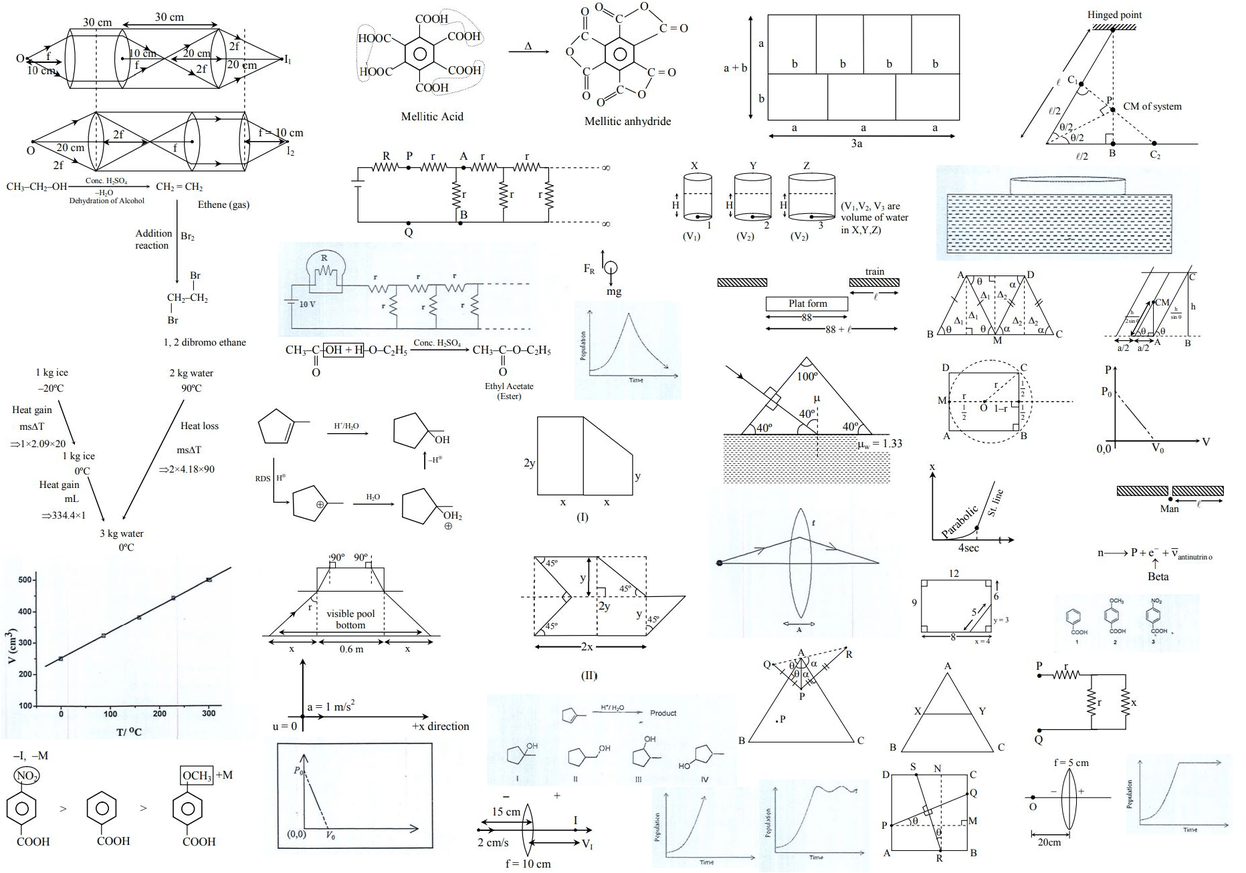
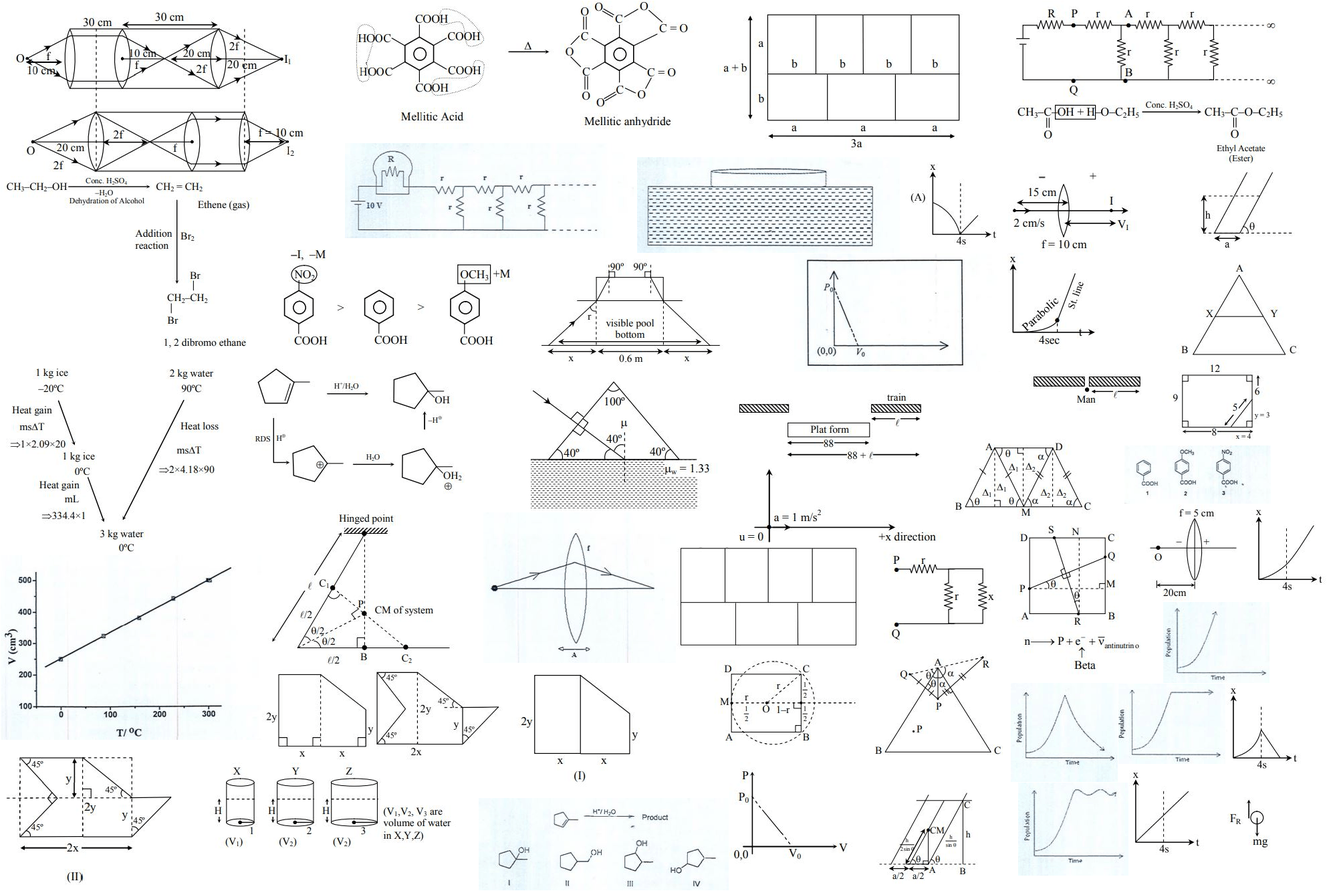
added images

diff --git a/img/others/kvpy/prev/kvpy_sa_2015.css b/img/others/kvpy/prev/kvpy_sa_2015.css
@@ -7,134 +7,155 @@ Responsive: <div class="yourspritesname"></div>
 */
 
 
+.KVPY_SA_Exam_2015_10_q {max-width:372px; max-height:139px; }
+.KVPY_SA_Exam_2015_10_q::after {content: '\00a0';display: inline-block; width:372px; height:139px; background-position: 24.212476837554046% 83.40283569641367%;background-size: 535.2150537634409% 962.589928057554%;background-image: url(kvpy_sa_2015.png);padding: 0; }
+div.KVPY_SA_Exam_2015_10_q::after {max-width:372px; width:100%;height:0;padding: 0 0 37.365591397849464% 0;}
 .KVPY_SA_Exam_2015_10_s_1 {max-width:287px; max-height:200px; }
-.KVPY_SA_Exam_2015_10_s_1::after {content: '\00a0';display: inline-block; width:287px; height:200px; background-position: 48.79441624365482% 54.79204339963834%;background-size: 649.1289198606272% 653%;background-image: url(kvpy_sa_2015.png);padding: 0; }
+.KVPY_SA_Exam_2015_10_s_1::after {content: '\00a0';display: inline-block; width:287px; height:200px; background-position: 44.894366197183096% 87.17047451669596%;background-size: 693.7282229965157% 669%;background-image: url(kvpy_sa_2015.png);padding: 0; }
 div.KVPY_SA_Exam_2015_10_s_1::after {max-width:287px; width:100%;height:0;padding: 0 0 69.68641114982579% 0;}
 .KVPY_SA_Exam_2015_10_s_2 {max-width:288px; max-height:230px; }
-.KVPY_SA_Exam_2015_10_s_2::after {content: '\00a0';display: inline-block; width:288px; height:230px; background-position: 48.888888888888886% 75%;background-size: 646.875% 567.8260869565217%;background-image: url(kvpy_sa_2015.png);padding: 0; }
+.KVPY_SA_Exam_2015_10_s_2::after {content: '\00a0';display: inline-block; width:288px; height:230px; background-position: 0.058719906048150326% 99.90974729241877%;background-size: 691.3194444444445% 581.7391304347826%;background-image: url(kvpy_sa_2015.png);padding: 0; }
 div.KVPY_SA_Exam_2015_10_s_2::after {max-width:288px; width:100%;height:0;padding: 0 0 79.86111111111111% 0;}
 .KVPY_SA_Exam_2015_11_s_1 {max-width:325px; max-height:141px; }
-.KVPY_SA_Exam_2015_11_s_1::after {content: '\00a0';display: inline-block; width:325px; height:141px; background-position: 68.7256176853056% 31.673819742489272%;background-size: 573.2307692307693% 926.2411347517731%;background-image: url(kvpy_sa_2015.png);padding: 0; }
+.KVPY_SA_Exam_2015_11_s_1::after {content: '\00a0';display: inline-block; width:325px; height:141px; background-position: 65.42617046818728% 46.532999164578115%;background-size: 612.6153846153846% 948.936170212766%;background-image: url(kvpy_sa_2015.png);padding: 0; }
 div.KVPY_SA_Exam_2015_11_s_1::after {max-width:325px; width:100%;height:0;padding: 0 0 43.38461538461539% 0;}
 .KVPY_SA_Exam_2015_11_s_2 {max-width:239px; max-height:113px; }
-.KVPY_SA_Exam_2015_11_s_2::after {content: '\00a0';display: inline-block; width:239px; height:113px; background-position: 99.9384236453202% 58.50796311818944%;background-size: 779.4979079497908% 1155.7522123893805%;background-image: url(kvpy_sa_2015.png);padding: 0; }
+.KVPY_SA_Exam_2015_11_s_2::after {content: '\00a0';display: inline-block; width:239px; height:113px; background-position: 85.55936073059361% 43.59183673469388%;background-size: 833.0543933054394% 1184.070796460177%;background-image: url(kvpy_sa_2015.png);padding: 0; }
 div.KVPY_SA_Exam_2015_11_s_2::after {max-width:239px; width:100%;height:0;padding: 0 0 47.28033472803347% 0;}
+.KVPY_SA_Exam_2015_17_q {max-width:184px; max-height:127px; }
+.KVPY_SA_Exam_2015_17_q::after {content: '\00a0';display: inline-block; width:184px; height:127px; background-position: 98.33978970669618% 20.64409578860446%;background-size: 1082.0652173913043% 1053.5433070866143%;background-image: url(kvpy_sa_2015.png);padding: 0; }
+div.KVPY_SA_Exam_2015_17_q::after {max-width:184px; width:100%;height:0;padding: 0 0 69.02173913043478% 0;}
 .KVPY_SA_Exam_2015_17_s {max-width:219px; max-height:141px; }
-.KVPY_SA_Exam_2015_17_s::after {content: '\00a0';display: inline-block; width:219px; height:141px; background-position: 99.69586374695864% 33.562231759656655%;background-size: 850.6849315068494% 926.2411347517731%;background-image: url(kvpy_sa_2015.png);padding: 0; }
+.KVPY_SA_Exam_2015_17_s::after {content: '\00a0';display: inline-block; width:219px; height:141px; background-position: 73.53273137697516% 98.57978279030911%;background-size: 909.1324200913242% 948.936170212766%;background-image: url(kvpy_sa_2015.png);padding: 0; }
 div.KVPY_SA_Exam_2015_17_s::after {max-width:219px; width:100%;height:0;padding: 0 0 64.38356164383562% 0;}
+.KVPY_SA_Exam_2015_18_o_1 {max-width:160px; max-height:136px; }
+.KVPY_SA_Exam_2015_18_o_1::after {content: '\00a0';display: inline-block; width:160px; height:136px; background-position: 73.56635718186783% 19.550748752079866%;background-size: 1244.375% 983.8235294117648%;background-image: url(kvpy_sa_2015.png);padding: 0; }
+div.KVPY_SA_Exam_2015_18_o_1::after {max-width:160px; width:100%;height:0;padding: 0 0 85% 0;}
+.KVPY_SA_Exam_2015_18_o_2 {max-width:118px; max-height:137px; }
+.KVPY_SA_Exam_2015_18_o_2::after {content: '\00a0';display: inline-block; width:118px; height:137px; background-position: 99.9466097170315% 62.781015820149875%;background-size: 1687.2881355932204% 976.6423357664233%;background-image: url(kvpy_sa_2015.png);padding: 0; }
+div.KVPY_SA_Exam_2015_18_o_2::after {max-width:118px; width:100%;height:0;padding: 0 0 116.10169491525424% 0;}
+.KVPY_SA_Exam_2015_18_o_3 {max-width:130px; max-height:156px; }
+.KVPY_SA_Exam_2015_18_o_3::after {content: '\00a0';display: inline-block; width:130px; height:156px; background-position: 90.7576571735626% 96.7005076142132%;background-size: 1531.5384615384614% 857.6923076923077%;background-image: url(kvpy_sa_2015.png);padding: 0; }
+div.KVPY_SA_Exam_2015_18_o_3::after {max-width:130px; width:100%;height:0;padding: 0 0 120% 0;}
+.KVPY_SA_Exam_2015_18_o_4 {max-width:125px; max-height:161px; }
+.KVPY_SA_Exam_2015_18_o_4::after {content: '\00a0';display: inline-block; width:125px; height:161px; background-position: 98.28510182207931% 86.83092608326253%;background-size: 1592.8% 831.055900621118%;background-image: url(kvpy_sa_2015.png);padding: 0; }
+div.KVPY_SA_Exam_2015_18_o_4::after {max-width:125px; width:100%;height:0;padding: 0 0 128.8% 0;}
 .KVPY_SA_Exam_2015_18_s_1 {max-width:335px; max-height:118px; }
-.KVPY_SA_Exam_2015_18_s_1::after {content: '\00a0';display: inline-block; width:335px; height:118px; background-position: 25.654450261780106% 82.74410774410775%;background-size: 556.1194029850747% 1106.7796610169491%;background-image: url(kvpy_sa_2015.png);padding: 0; }
+.KVPY_SA_Exam_2015_18_s_1::after {content: '\00a0';display: inline-block; width:335px; height:118px; background-position: 65.82125603864735% 57.295081967213115%;background-size: 594.3283582089553% 1133.8983050847457%;background-image: url(kvpy_sa_2015.png);padding: 0; }
 div.KVPY_SA_Exam_2015_18_s_1::after {max-width:335px; width:100%;height:0;padding: 0 0 35.223880597014926% 0;}
 .KVPY_SA_Exam_2015_18_s_2 {max-width:244px; max-height:155px; }
-.KVPY_SA_Exam_2015_18_s_2::after {content: '\00a0';display: inline-block; width:244px; height:155px; background-position: 85.11426806670785% 59.860990443092966%;background-size: 763.5245901639345% 842.5806451612904%;background-image: url(kvpy_sa_2015.png);padding: 0; }
+.KVPY_SA_Exam_2015_18_s_2::after {content: '\00a0';display: inline-block; width:244px; height:155px; background-position: 85.80423583285632% 31.952662721893493%;background-size: 815.983606557377% 863.2258064516129%;background-image: url(kvpy_sa_2015.png);padding: 0; }
 div.KVPY_SA_Exam_2015_18_s_2::after {max-width:244px; width:100%;height:0;padding: 0 0 63.52459016393443% 0;}
 .KVPY_SA_Exam_2015_21_s {max-width:119px; max-height:87px; }
-.KVPY_SA_Exam_2015_21_s::after {content: '\00a0';display: inline-block; width:119px; height:87px; background-position: 48.9105504587156% 29.696472518457753%;background-size: 1565.546218487395% 1501.1494252873563%;background-image: url(kvpy_sa_2015.png);padding: 0; }
+.KVPY_SA_Exam_2015_21_s::after {content: '\00a0';display: inline-block; width:119px; height:87px; background-position: 97.22222222222223% 94.64428457234213%;background-size: 1673.109243697479% 1537.9310344827586%;background-image: url(kvpy_sa_2015.png);padding: 0; }
 div.KVPY_SA_Exam_2015_21_s::after {max-width:119px; width:100%;height:0;padding: 0 0 73.10924369747899% 0;}
 .KVPY_SA_Exam_2015_22_s {max-width:225px; max-height:76px; }
-.KVPY_SA_Exam_2015_22_s::after {content: '\00a0';display: inline-block; width:225px; height:76px; background-position: 99.08424908424908% 66.01626016260163%;background-size: 828% 1718.421052631579%;background-image: url(kvpy_sa_2015.png);padding: 0; }
+.KVPY_SA_Exam_2015_22_s::after {content: '\00a0';display: inline-block; width:225px; height:76px; background-position: 85.73046432616081% 74.80190174326466%;background-size: 884.8888888888889% 1760.5263157894738%;background-image: url(kvpy_sa_2015.png);padding: 0; }
 div.KVPY_SA_Exam_2015_22_s::after {max-width:225px; width:100%;height:0;padding: 0 0 33.77777777777778% 0;}
 .KVPY_SA_Exam_2015_23_s {max-width:514px; max-height:261px; }
-.KVPY_SA_Exam_2015_23_s::after {content: '\00a0';display: inline-block; width:514px; height:261px; background-position: 0.07412898443291327% 0.09569377990430622%;background-size: 362.4513618677043% 500.3831417624521%;background-image: url(kvpy_sa_2015.png);padding: 0; }
+.KVPY_SA_Exam_2015_23_s::after {content: '\00a0';display: inline-block; width:514px; height:261px; background-position: 0.06770480704129993% 0.09285051067780872%;background-size: 387.3540856031128% 512.6436781609195%;background-image: url(kvpy_sa_2015.png);padding: 0; }
 div.KVPY_SA_Exam_2015_23_s::after {max-width:514px; width:100%;height:0;padding: 0 0 50.778210116731515% 0;}
 .KVPY_SA_Exam_2015_24_s {max-width:320px; max-height:217px; }
-.KVPY_SA_Exam_2015_24_s::after {content: '\00a0';display: inline-block; width:320px; height:217px; background-position: 68.50291639662994% 46.92378328741965%;background-size: 582.1875% 601.8433179723502%;background-image: url(kvpy_sa_2015.png);padding: 0; }
+.KVPY_SA_Exam_2015_24_s::after {content: '\00a0';display: inline-block; width:320px; height:217px; background-position: 46.02034709754638% 48.88492417484389%;background-size: 622.1875% 616.5898617511521%;background-image: url(kvpy_sa_2015.png);padding: 0; }
 div.KVPY_SA_Exam_2015_24_s::after {max-width:320px; width:100%;height:0;padding: 0 0 67.8125% 0;}
 .KVPY_SA_Exam_2015_25_s {max-width:268px; max-height:127px; }
-.KVPY_SA_Exam_2015_25_s::after {content: '\00a0';display: inline-block; width:268px; height:127px; background-position: 44.26332288401254% 99.8303647158609%;background-size: 695.1492537313433% 1028.3464566929133%;background-image: url(kvpy_sa_2015.png);padding: 0; }
+.KVPY_SA_Exam_2015_25_s::after {content: '\00a0';display: inline-block; width:268px; height:127px; background-position: 87.52176436448056% 20.64409578860446%;background-size: 742.9104477611941% 1053.5433070866143%;background-image: url(kvpy_sa_2015.png);padding: 0; }
 div.KVPY_SA_Exam_2015_25_s::after {max-width:268px; width:100%;height:0;padding: 0 0 47.38805970149254% 0;}
 .KVPY_SA_Exam_2015_26_q {max-width:436px; max-height:142px; }
-.KVPY_SA_Exam_2015_26_q::after {content: '\00a0';display: inline-block; width:436px; height:142px; background-position: 29.1520672740014% 31.099656357388316%;background-size: 427.29357798165137% 919.7183098591549%;background-image: url(kvpy_sa_2015.png);padding: 0; }
+.KVPY_SA_Exam_2015_26_q::after {content: '\00a0';display: inline-block; width:436px; height:142px; background-position: 33.18327974276527% 17.892976588628763%;background-size: 456.651376146789% 942.2535211267606%;background-image: url(kvpy_sa_2015.png);padding: 0; }
 div.KVPY_SA_Exam_2015_26_q::after {max-width:436px; width:100%;height:0;padding: 0 0 32.56880733944954% 0;}
 .KVPY_SA_Exam_2015_26_s_1 {max-width:457px; max-height:147px; }
-.KVPY_SA_Exam_2015_26_s_1::after {content: '\00a0';display: inline-block; width:457px; height:147px; background-position: 36.69985775248933% 18.464193270060395%;background-size: 407.6586433260394% 888.4353741496599%;background-image: url(kvpy_sa_2015.png);padding: 0; }
+.KVPY_SA_Exam_2015_26_s_1::after {content: '\00a0';display: inline-block; width:457px; height:147px; background-position: 98.5006518904824% 0.08396305625524769%;background-size: 435.66739606126913% 910.204081632653%;background-image: url(kvpy_sa_2015.png);padding: 0; }
 div.KVPY_SA_Exam_2015_26_s_1::after {max-width:457px; width:100%;height:0;padding: 0 0 32.16630196936543% 0;}
 .KVPY_SA_Exam_2015_26_s_2 {max-width:207px; max-height:150px; }
-.KVPY_SA_Exam_2015_26_s_2::after {content: '\00a0';display: inline-block; width:207px; height:150px; background-position: 91.72705314009661% 84.51557093425606%;background-size: 900% 870.6666666666666%;background-image: url(kvpy_sa_2015.png);padding: 0; }
+.KVPY_SA_Exam_2015_26_s_2::after {content: '\00a0';display: inline-block; width:207px; height:150px; background-position: 73.20627802690584% 68.85521885521885%;background-size: 961.8357487922706% 892%;background-image: url(kvpy_sa_2015.png);padding: 0; }
 div.KVPY_SA_Exam_2015_26_s_2::after {max-width:207px; width:100%;height:0;padding: 0 0 72.46376811594203% 0;}
 .KVPY_SA_Exam_2015_29_q {max-width:310px; max-height:177px; }
-.KVPY_SA_Exam_2015_29_q::after {content: '\00a0';display: inline-block; width:310px; height:177px; background-position: 25.434642627173215% 97.60850310008857%;background-size: 600.9677419354839% 737.8531073446328%;background-image: url(kvpy_sa_2015.png);padding: 0; }
+.KVPY_SA_Exam_2015_29_q::after {content: '\00a0';display: inline-block; width:310px; height:177px; background-position: 70.67221891731113% 32.6442721791559%;background-size: 642.258064516129% 755.9322033898305%;background-image: url(kvpy_sa_2015.png);padding: 0; }
 div.KVPY_SA_Exam_2015_29_q::after {max-width:310px; width:100%;height:0;padding: 0 0 57.096774193548384% 0;}
 .KVPY_SA_Exam_2015_29_s {max-width:211px; max-height:164px; }
-.KVPY_SA_Exam_2015_29_s::after {content: '\00a0';display: inline-block; width:211px; height:164px; background-position: 98.8498789346247% 46.67250437828371%;background-size: 882.9383886255924% 796.3414634146342%;background-image: url(kvpy_sa_2015.png);padding: 0; }
+.KVPY_SA_Exam_2015_29_s::after {content: '\00a0';display: inline-block; width:211px; height:164px; background-position: 61.29213483146067% 97.01873935264055%;background-size: 943.6018957345972% 815.8536585365854%;background-image: url(kvpy_sa_2015.png);padding: 0; }
 div.KVPY_SA_Exam_2015_29_s::after {max-width:211px; width:100%;height:0;padding: 0 0 77.72511848341232% 0;}
 .KVPY_SA_Exam_2015_34_q {max-width:219px; max-height:87px; }
-.KVPY_SA_Exam_2015_34_q::after {content: '\00a0';display: inline-block; width:219px; height:87px; background-position: 95.86374695863746% 72.92863002461034%;background-size: 850.6849315068494% 1501.1494252873563%;background-image: url(kvpy_sa_2015.png);padding: 0; }
+.KVPY_SA_Exam_2015_34_q::after {content: '\00a0';display: inline-block; width:219px; height:87px; background-position: 94.92099322799098% 53.23741007194245%;background-size: 909.1324200913242% 1537.9310344827586%;background-image: url(kvpy_sa_2015.png);padding: 0; }
 div.KVPY_SA_Exam_2015_34_q::after {max-width:219px; width:100%;height:0;padding: 0 0 39.726027397260275% 0;}
 .KVPY_SA_Exam_2015_34_s {max-width:393px; max-height:188px; }
-.KVPY_SA_Exam_2015_34_s::after {content: '\00a0';display: inline-block; width:393px; height:188px; background-position: 0.06802721088435375% 99.01610017889088%;background-size: 474.0458015267176% 694.6808510638298%;background-image: url(kvpy_sa_2015.png);padding: 0; }
+.KVPY_SA_Exam_2015_34_s::after {content: '\00a0';display: inline-block; width:393px; height:188px; background-position: 26.032540675844807% 31.043478260869566%;background-size: 506.61577608142494% 711.7021276595744%;background-image: url(kvpy_sa_2015.png);padding: 0; }
 div.KVPY_SA_Exam_2015_34_s::after {max-width:393px; width:100%;height:0;padding: 0 0 47.837150127226465% 0;}
 .KVPY_SA_Exam_2015_40_s {max-width:555px; max-height:212px; }
-.KVPY_SA_Exam_2015_40_s::after {content: '\00a0';display: inline-block; width:555px; height:212px; background-position: 39.44954128440367% 0.09140767824497258%;background-size: 335.6756756756757% 616.0377358490566%;background-image: url(kvpy_sa_2015.png);padding: 0; }
+.KVPY_SA_Exam_2015_40_s::after {content: '\00a0';display: inline-block; width:555px; height:212px; background-position: 35.93314763231198% 0.08880994671403197%;background-size: 358.73873873873873% 631.1320754716982%;background-image: url(kvpy_sa_2015.png);padding: 0; }
 div.KVPY_SA_Exam_2015_40_s::after {max-width:555px; width:100%;height:0;padding: 0 0 38.1981981981982% 0;}
 .KVPY_SA_Exam_2015_41_s {max-width:442px; max-height:100px; }
-.KVPY_SA_Exam_2015_41_s::after {content: '\00a0';display: inline-block; width:442px; height:100px; background-position: 29.27515833919775% 41.87396351575456%;background-size: 421.49321266968326% 1306%;background-image: url(kvpy_sa_2015.png);padding: 0; }
+.KVPY_SA_Exam_2015_41_s::after {content: '\00a0';display: inline-block; width:442px; height:100px; background-position: 97.54680438992898% 12.035541195476576%;background-size: 450.4524886877828% 1338%;background-image: url(kvpy_sa_2015.png);padding: 0; }
 div.KVPY_SA_Exam_2015_41_s::after {max-width:442px; width:100%;height:0;padding: 0 0 22.624434389140273% 0;}
 .KVPY_SA_Exam_2015_45_q {max-width:390px; max-height:276px; }
-.KVPY_SA_Exam_2015_45_q::after {content: '\00a0';display: inline-block; width:390px; height:276px; background-position: 0.06788866259334692% 80.58252427184466%;background-size: 477.6923076923077% 473.18840579710144%;background-image: url(kvpy_sa_2015.png);padding: 0; }
+.KVPY_SA_Exam_2015_45_q::after {content: '\00a0';display: inline-block; width:390px; height:276px; background-position: 0.06246096189881324% 78.15442561205273%;background-size: 510.5128205128205% 484.7826086956522%;background-image: url(kvpy_sa_2015.png);padding: 0; }
 div.KVPY_SA_Exam_2015_45_q::after {max-width:390px; width:100%;height:0;padding: 0 0 70.76923076923077% 0;}
+.KVPY_SA_Exam_2015_4_q {max-width:293px; max-height:152px; }
+.KVPY_SA_Exam_2015_4_q::after {content: '\00a0';display: inline-block; width:293px; height:152px; background-position: 59.599528857479385% 68.97133220910624%;background-size: 679.5221843003413% 880.2631578947369%;background-image: url(kvpy_sa_2015.png);padding: 0; }
+div.KVPY_SA_Exam_2015_4_q::after {max-width:293px; width:100%;height:0;padding: 0 0 51.877133105802045% 0;}
 .KVPY_SA_Exam_2015_4_s {max-width:438px; max-height:233px; }
-.KVPY_SA_Exam_2015_4_s::after {content: '\00a0';display: inline-block; width:438px; height:233px; background-position: 75.2280701754386% 0.09319664492078285%;background-size: 425.3424657534247% 560.5150214592275%;background-image: url(kvpy_sa_2015.png);padding: 0; }
+.KVPY_SA_Exam_2015_4_s::after {content: '\00a0';display: inline-block; width:438px; height:233px; background-position: 69.02768834513844% 0.09049773755656108%;background-size: 454.5662100456621% 574.2489270386266%;background-image: url(kvpy_sa_2015.png);padding: 0; }
 div.KVPY_SA_Exam_2015_4_s::after {max-width:438px; width:100%;height:0;padding: 0 0 53.19634703196347% 0;}
 .KVPY_SA_Exam_2015_61_s {max-width:227px; max-height:127px; }
-.KVPY_SA_Exam_2015_61_s::after {content: '\00a0';display: inline-block; width:227px; height:127px; background-position: 82.3960880195599% 71.67090754877015%;background-size: 820.704845814978% 1028.3464566929133%;background-image: url(kvpy_sa_2015.png);padding: 0; }
+.KVPY_SA_Exam_2015_61_s::after {content: '\00a0';display: inline-block; width:227px; height:127px; background-position: 98.58276643990929% 44.426094137076795%;background-size: 877.0925110132158% 1053.5433070866143%;background-image: url(kvpy_sa_2015.png);padding: 0; }
 div.KVPY_SA_Exam_2015_61_s::after {max-width:227px; width:100%;height:0;padding: 0 0 55.947136563876654% 0;}
 .KVPY_SA_Exam_2015_63_s {max-width:255px; max-height:129px; }
-.KVPY_SA_Exam_2015_63_s::after {content: '\00a0';display: inline-block; width:255px; height:129px; background-position: 86.00746268656717% 33.220050977060325%;background-size: 730.5882352941177% 1012.4031007751938%;background-image: url(kvpy_sa_2015.png);padding: 0; }
+.KVPY_SA_Exam_2015_63_s::after {content: '\00a0';display: inline-block; width:255px; height:129px; background-position: 82.14285714285714% 53.59801488833747%;background-size: 780.7843137254902% 1037.2093023255813%;background-image: url(kvpy_sa_2015.png);padding: 0; }
 div.KVPY_SA_Exam_2015_63_s::after {max-width:255px; width:100%;height:0;padding: 0 0 50.588235294117645% 0;}
 .KVPY_SA_Exam_2015_64_s {max-width:425px; max-height:133px; }
-.KVPY_SA_Exam_2015_64_s::after {content: '\00a0';display: inline-block; width:425px; height:133px; background-position: 67.73296244784423% 20.034100596760442%;background-size: 438.3529411764706% 981.9548872180451%;background-image: url(kvpy_sa_2015.png);padding: 0; }
+.KVPY_SA_Exam_2015_64_s::after {content: '\00a0';display: inline-block; width:425px; height:133px; background-position: 18.51851851851852% 94.60580912863071%;background-size: 468.47058823529414% 1006.015037593985%;background-image: url(kvpy_sa_2015.png);padding: 0; }
 div.KVPY_SA_Exam_2015_64_s::after {max-width:425px; width:100%;height:0;padding: 0 0 31.294117647058822% 0;}
 .KVPY_SA_Exam_2015_66_q {max-width:393px; max-height:143px; }
-.KVPY_SA_Exam_2015_66_q::after {content: '\00a0';display: inline-block; width:393px; height:143px; background-position: 95.23809523809524% 21.238177128116938%;background-size: 474.0458015267176% 913.2867132867133%;background-image: url(kvpy_sa_2015.png);padding: 0; }
+.KVPY_SA_Exam_2015_66_q::after {content: '\00a0';display: inline-block; width:393px; height:143px; background-position: 59.63704630788486% 19.665271966527197%;background-size: 506.61577608142494% 935.6643356643357%;background-image: url(kvpy_sa_2015.png);padding: 0; }
 div.KVPY_SA_Exam_2015_66_q::after {max-width:393px; width:100%;height:0;padding: 0 0 36.38676844783715% 0;}
 .KVPY_SA_Exam_2015_66_s {max-width:377px; max-height:168px; }
-.KVPY_SA_Exam_2015_66_s::after {content: '\00a0';display: inline-block; width:377px; height:168px; background-position: 26.379542395693136% 71.52899824253076%;background-size: 494.16445623342173% 777.3809523809524%;background-image: url(kvpy_sa_2015.png);padding: 0; }
+.KVPY_SA_Exam_2015_66_s::after {content: '\00a0';display: inline-block; width:377px; height:168px; background-position: 50.185873605947954% 32.39316239316239%;background-size: 528.1167108753316% 796.4285714285714%;background-image: url(kvpy_sa_2015.png);padding: 0; }
 div.KVPY_SA_Exam_2015_66_s::after {max-width:377px; width:100%;height:0;padding: 0 0 44.56233421750663% 0;}
 .KVPY_SA_Exam_2015_67_s {max-width:373px; max-height:294px; }
-.KVPY_SA_Exam_2015_67_s::after {content: '\00a0';display: inline-block; width:373px; height:294px; background-position: 0.06711409395973154% 52.865612648221344%;background-size: 499.4638069705094% 444.21768707482994%;background-image: url(kvpy_sa_2015.png);padding: 0; }
+.KVPY_SA_Exam_2015_67_s::after {content: '\00a0';display: inline-block; width:373px; height:294px; background-position: 0.06180469715698393% 51.24521072796935%;background-size: 533.7801608579089% 455.1020408163265%;background-image: url(kvpy_sa_2015.png);padding: 0; }
 div.KVPY_SA_Exam_2015_67_s::after {max-width:373px; width:100%;height:0;padding: 0 0 78.82037533512064% 0;}
 .KVPY_SA_Exam_2015_68_s {max-width:330px; max-height:245px; }
-.KVPY_SA_Exam_2015_68_s::after {content: '\00a0';display: inline-block; width:330px; height:245px; background-position: 98.56490541422048% 0.0942507068803016%;background-size: 564.5454545454545% 533.0612244897959%;background-image: url(kvpy_sa_2015.png);padding: 0; }
+.KVPY_SA_Exam_2015_68_s::after {content: '\00a0';display: inline-block; width:330px; height:245px; background-position: 23.600240818783867% 68.98444647758463%;background-size: 603.3333333333334% 546.1224489795918%;background-image: url(kvpy_sa_2015.png);padding: 0; }
 div.KVPY_SA_Exam_2015_68_s::after {max-width:330px; width:100%;height:0;padding: 0 0 74.24242424242425% 0;}
 .KVPY_SA_Exam_2015_69_q {max-width:288px; max-height:225px; }
-.KVPY_SA_Exam_2015_69_q::after {content: '\00a0';display: inline-block; width:288px; height:225px; background-position: 67.23809523809524% 67.43755781683626%;background-size: 646.875% 580.4444444444445%;background-image: url(kvpy_sa_2015.png);padding: 0; }
+.KVPY_SA_Exam_2015_69_q::after {content: '\00a0';display: inline-block; width:288px; height:225px; background-position: 42.454492072812684% 68.8230008984726%;background-size: 691.3194444444445% 594.6666666666666%;background-image: url(kvpy_sa_2015.png);padding: 0; }
 div.KVPY_SA_Exam_2015_69_q::after {max-width:288px; width:100%;height:0;padding: 0 0 78.125% 0;}
 .KVPY_SA_Exam_2015_69_s {max-width:164px; max-height:145px; }
-.KVPY_SA_Exam_2015_69_s::after {content: '\00a0';display: inline-block; width:164px; height:145px; background-position: 89.40553266627428% 97.1576227390181%;background-size: 1135.9756097560976% 900.6896551724138%;background-image: url(kvpy_sa_2015.png);padding: 0; }
+.KVPY_SA_Exam_2015_69_s::after {content: '\00a0';display: inline-block; width:164px; height:145px; background-position: 93.43185550082102% 63.202011735121545%;background-size: 1214.0243902439024% 922.7586206896551%;background-image: url(kvpy_sa_2015.png);padding: 0; }
 div.KVPY_SA_Exam_2015_69_s::after {max-width:164px; width:100%;height:0;padding: 0 0 88.41463414634147% 0;}
 .KVPY_SA_Exam_2015_6_s {max-width:211px; max-height:159px; }
-.KVPY_SA_Exam_2015_6_s::after {content: '\00a0';display: inline-block; width:211px; height:159px; background-position: 79.11622276029055% 84.82999128160418%;background-size: 882.9383886255924% 821.3836477987421%;background-image: url(kvpy_sa_2015.png);padding: 0; }
+.KVPY_SA_Exam_2015_6_s::after {content: '\00a0';display: inline-block; width:211px; height:159px; background-position: 97.97752808988764% 32.06106870229008%;background-size: 943.6018957345972% 841.5094339622641%;background-image: url(kvpy_sa_2015.png);padding: 0; }
 div.KVPY_SA_Exam_2015_6_s::after {max-width:211px; width:100%;height:0;padding: 0 0 75.35545023696683% 0;}
 .KVPY_SA_Exam_2015_72_s {max-width:414px; max-height:271px; }
-.KVPY_SA_Exam_2015_72_s::after {content: '\00a0';display: inline-block; width:414px; height:271px; background-position: 0.06901311249137336% 25.41062801932367%;background-size: 450% 481.9188191881919%;background-image: url(kvpy_sa_2015.png);padding: 0; }
+.KVPY_SA_Exam_2015_72_s::after {content: '\00a0';display: inline-block; width:414px; height:271px; background-position: 0.06341154090044387% 24.6485473289597%;background-size: 480.9178743961353% 493.7269372693727%;background-image: url(kvpy_sa_2015.png);padding: 0; }
 div.KVPY_SA_Exam_2015_72_s::after {max-width:414px; width:100%;height:0;padding: 0 0 65.45893719806763% 0;}
 .KVPY_SA_Exam_2015_75_q {max-width:374px; max-height:138px; }
-.KVPY_SA_Exam_2015_75_q::after {content: '\00a0';display: inline-block; width:374px; height:138px; background-position: 48.89187374076561% 88.86986301369863%;background-size: 498.1283422459893% 946.3768115942029%;background-image: url(kvpy_sa_2015.png);padding: 0; }
+.KVPY_SA_Exam_2015_75_q::after {content: '\00a0';display: inline-block; width:374px; height:138px; background-position: 44.27952999381571% 99.41666666666667%;background-size: 532.3529411764706% 969.5652173913044%;background-image: url(kvpy_sa_2015.png);padding: 0; }
 div.KVPY_SA_Exam_2015_75_q::after {max-width:374px; width:100%;height:0;padding: 0 0 36.898395721925134% 0;}
 .KVPY_SA_Exam_2015_75_s {max-width:393px; max-height:207px; }
-.KVPY_SA_Exam_2015_75_s::after {content: '\00a0';display: inline-block; width:393px; height:207px; background-position: 25.510204081632654% 55.1410373066424%;background-size: 474.0458015267176% 630.9178743961353%;background-image: url(kvpy_sa_2015.png);padding: 0; }
+.KVPY_SA_Exam_2015_75_s::after {content: '\00a0';display: inline-block; width:393px; height:207px; background-position: 23.46683354192741% 48.275862068965516%;background-size: 506.61577608142494% 646.3768115942029%;background-image: url(kvpy_sa_2015.png);padding: 0; }
 div.KVPY_SA_Exam_2015_75_s::after {max-width:393px; width:100%;height:0;padding: 0 0 52.67175572519084% 0;}
 .KVPY_SA_Exam_2015_78_o_1 {max-width:159px; max-height:121px; }
-.KVPY_SA_Exam_2015_78_o_1::after {content: '\00a0';display: inline-block; width:159px; height:121px; background-position: 57.21830985915493% 99.32489451476793%;background-size: 1171.698113207547% 1079.3388429752067%;background-image: url(kvpy_sa_2015.png);padding: 0; }
+.KVPY_SA_Exam_2015_78_o_1::after {content: '\00a0';display: inline-block; width:159px; height:121px; background-position: 94.97816593886463% 73.95234182415777%;background-size: 1252.2012578616352% 1105.7851239669421%;background-image: url(kvpy_sa_2015.png);padding: 0; }
 div.KVPY_SA_Exam_2015_78_o_1::after {max-width:159px; width:100%;height:0;padding: 0 0 76.1006289308176% 0;}
 .KVPY_SA_Exam_2015_78_o_2 {max-width:160px; max-height:120px; }
-.KVPY_SA_Exam_2015_78_o_2::after {content: '\00a0';display: inline-block; width:160px; height:120px; background-position: 98.88432178508515% 95.10961214165262%;background-size: 1164.375% 1088.3333333333333%;background-image: url(kvpy_sa_2015.png);padding: 0; }
+.KVPY_SA_Exam_2015_78_o_2::after {content: '\00a0';display: inline-block; width:160px; height:120px; background-position: 91.37083560895685% 83.9080459770115%;background-size: 1244.375% 1115%;background-image: url(kvpy_sa_2015.png);padding: 0; }
 div.KVPY_SA_Exam_2015_78_o_2::after {max-width:160px; width:100%;height:0;padding: 0 0 75% 0;}
 .KVPY_SA_Exam_2015_78_o_3 {max-width:165px; max-height:139px; }
-.KVPY_SA_Exam_2015_78_o_3::after {content: '\00a0';display: inline-block; width:165px; height:139px; background-position: 66.84334511189635% 99.91431019708655%;background-size: 1129.090909090909% 939.568345323741%;background-image: url(kvpy_sa_2015.png);padding: 0; }
+.KVPY_SA_Exam_2015_78_o_3::after {content: '\00a0';display: inline-block; width:165px; height:139px; background-position: 83.40635268346112% 97.581317764804%;background-size: 1206.6666666666667% 962.589928057554%;background-image: url(kvpy_sa_2015.png);padding: 0; }
 div.KVPY_SA_Exam_2015_78_o_3::after {max-width:165px; width:100%;height:0;padding: 0 0 84.24242424242425% 0;}
 .KVPY_SA_Exam_2015_78_o_4 {max-width:160px; max-height:148px; }
-.KVPY_SA_Exam_2015_78_o_4::after {content: '\00a0';display: inline-block; width:160px; height:148px; background-position: 50.440399295361125% 38.86010362694301%;background-size: 1164.375% 882.4324324324324%;background-image: url(kvpy_sa_2015.png);padding: 0; }
+.KVPY_SA_Exam_2015_78_o_4::after {content: '\00a0';display: inline-block; width:160px; height:148px; background-position: 82.57782632441288% 85.7983193277311%;background-size: 1244.375% 904.0540540540541%;background-image: url(kvpy_sa_2015.png);padding: 0; }
 div.KVPY_SA_Exam_2015_78_o_4::after {max-width:160px; width:100%;height:0;padding: 0 0 92.5% 0;}
 .KVPY_SA_Exam_2015_7_s {max-width:203px; max-height:210px; }
-.KVPY_SA_Exam_2015_7_s::after {content: '\00a0';display: inline-block; width:203px; height:210px; background-position: 66.44578313253012% 87.13503649635037%;background-size: 917.7339901477833% 621.9047619047619%;background-image: url(kvpy_sa_2015.png);padding: 0; }
+.KVPY_SA_Exam_2015_7_s::after {content: '\00a0';display: inline-block; width:203px; height:210px; background-position: 73.15436241610739% 85.90425531914893%;background-size: 980.7881773399015% 637.1428571428571%;background-image: url(kvpy_sa_2015.png);padding: 0; }
 div.KVPY_SA_Exam_2015_7_s::after {max-width:203px; width:100%;height:0;padding: 0 0 103.44827586206897% 0;}
 .KVPY_SA_Exam_2015_8_s {max-width:254px; max-height:167px; }
-.KVPY_SA_Exam_2015_8_s::after {content: '\00a0';display: inline-block; width:254px; height:167px; background-position: 85.64325668116842% 45.74187884108868%;background-size: 733.4645669291339% 782.0359281437126%;background-image: url(kvpy_sa_2015.png);padding: 0; }
+.KVPY_SA_Exam_2015_8_s::after {content: '\00a0';display: inline-block; width:254px; height:167px; background-position: 60.62176165803109% 82.9205807002562%;background-size: 783.8582677165355% 801.1976047904192%;background-image: url(kvpy_sa_2015.png);padding: 0; }
 div.KVPY_SA_Exam_2015_8_s::after {max-width:254px; width:100%;height:0;padding: 0 0 65.74803149606299% 0;}
 .KVPY_SA_Exam_2015_9_s {max-width:192px; max-height:165px; }
-.KVPY_SA_Exam_2015_9_s::after {content: '\00a0';display: inline-block; width:192px; height:165px; background-position: 78.2166367444644% 99.2988606485539%;background-size: 970.3125% 791.5151515151515%;background-image: url(kvpy_sa_2015.png);padding: 0; }
+.KVPY_SA_Exam_2015_9_s::after {content: '\00a0';display: inline-block; width:192px; height:165px; background-position: 84.15786548082268% 66.32566069906224%;background-size: 1036.9791666666667% 810.9090909090909%;background-image: url(kvpy_sa_2015.png);padding: 0; }
 div.KVPY_SA_Exam_2015_9_s::after {max-width:192px; width:100%;height:0;padding: 0 0 85.9375% 0;}
 
-/* $TexturePacker:SmartUpdate:0d9ed713b758b072c3beaf8817535861:e790bb8364263cd88953a075e1cced42:610d4255abf14db9ff31f28eaa2f0709$ */
+/* $TexturePacker:SmartUpdate:deee9b1f4728a2c9569fa85a93ebf374:cba2d3bb95ca33248290ca9fe4536a1d:610d4255abf14db9ff31f28eaa2f0709$ */
